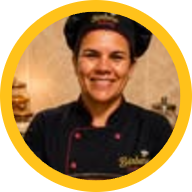
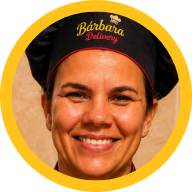
Atualiza fotos da Bárbara e do pudim; cursor nos botões
- Nova foto da Bárbara no "Sobre", no menu e no favicon
- Pudim com frutas cristalizadas no círculo do topo
- Restaura o cursor de mãozinha nos botões (Tailwind 4)

diff --git a/src/lib/content.ts b/src/lib/content.ts
@@ -105,8 +105,8 @@ export const content: DB = {
     aboutTitle: "Feito com amor, servido com carinho",
     aboutText:
       "Tudo começou na cozinha de casa, com receitas de família e muita vontade de fazer gente feliz. Hoje, cada pedido que sai daqui leva o mesmo cuidado: ingredientes fresquinhos, massa feita na hora e aquele sabor que lembra a comida de vó.\n\nDo pãozinho com queijo ralado ao sonho recheado, do bolo de milho ao pudim lisinho — é tudo preparado com amor.",
-    aboutImage: "/images/barbara.jpg",
-    heroImage: "/images/cardapio/pudim.jpg",
+    aboutImage: "/images/barbara.webp",
+    heroImage: "/images/pudim-destaque.png",
     whatsapp: "5583988201418",
     whatsappDisplay: "(83) 98820-1418",
     instagram: "barbara.delivery83",

diff --git a/src/app/globals.css b/src/app/globals.css
@@ -66,6 +66,19 @@ body {
   -webkit-font-smoothing: antialiased;
 }
 
+/* Tailwind 4 não coloca mais a "mãozinha" nos botões por padrão */
+@layer base {
+  button:not(:disabled),
+  [role="button"]:not([aria-disabled="true"]),
+  summary,
+  label:has(> input[type="checkbox"]) {
+    cursor: pointer;
+  }
+  button:disabled {
+    cursor: not-allowed;
+  }
+}
+
 ::selection {
   background: var(--color-mustard-400);
   color: var(--color-cocoa-900);
